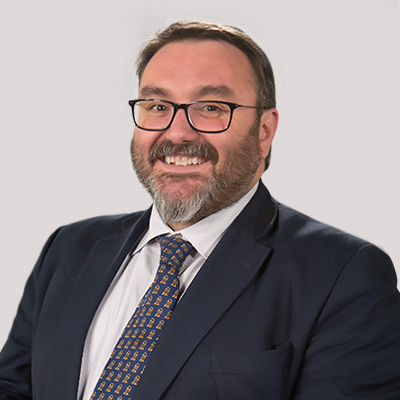
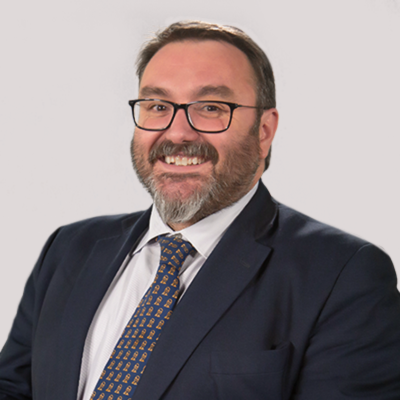
update pics

diff --git a/speakers.js b/speakers.js
@@ -7,12 +7,12 @@ export const speakers  = [
     {
         name: 'Juan Sebastián Chamorro ',
         description: 'Economista y político nicaragüense. Director ejecutivo de la Fundación Nicaragüense para el Desarrollo Económico y Social (FUNIDES).',
-        picture: '/images/speakers/2.jpg',
+        picture: '/images/speakers/2.png',
     },
     {
         name: 'Representantes de Movimiento Cívico Nacional (MCN)',
         description: 'Movimiento Cívico Nacional (MCN) es una organización de la sociedad civil que busca promover la participación ciudadana, la democracia y la libertad en Nicaragua. ',
-        picture: '/images/speakers/3.png',
+        picture: '/images/speakers/6.png',
     },
     {
         name: 'Representantes de Guatemala Visible',
@@ -26,7 +26,7 @@ export const speakers  = [
     },{
         name: 'Representantes de Misión de Observación Electoral de Guatemala (MOE-Gt)',
         description: 'Misión de Observación Electoral de Guatemala (MOE-Gt) es una organización de la sociedad civil que busca promover la participación ciudadana, la democracia y la libertad en Nicaragua. ',
-        picture: '/images/speakers/6.png',
+        picture: '/images/speakers/3.png',
     }
 
 ]

diff --git a/src/components/Speaker/Speaker.jsx b/src/components/Speaker/Speaker.jsx
@@ -4,7 +4,7 @@ import PropTypes from "prop-types"
 const Speaker = ({ speaker }) => {
     return (
         <div className="flex flex-col items-center justify-center p-4 rounded-2xl bg-mcn-blue h-96 shadow-2xl">
-            <img src={speaker.picture} alt={speaker.name} className="w-40 h-40 rounded-full object-fill shadow-2xl"/>
+            <img src={speaker.picture} alt={speaker.name} className="w-40 h-40 rounded-full object-fill shadow-2xl bg-white"/>
             <h3 className="text-xl font-bold text-center mt-8 text-white">{speaker.name}</h3>
         </div>
     )
